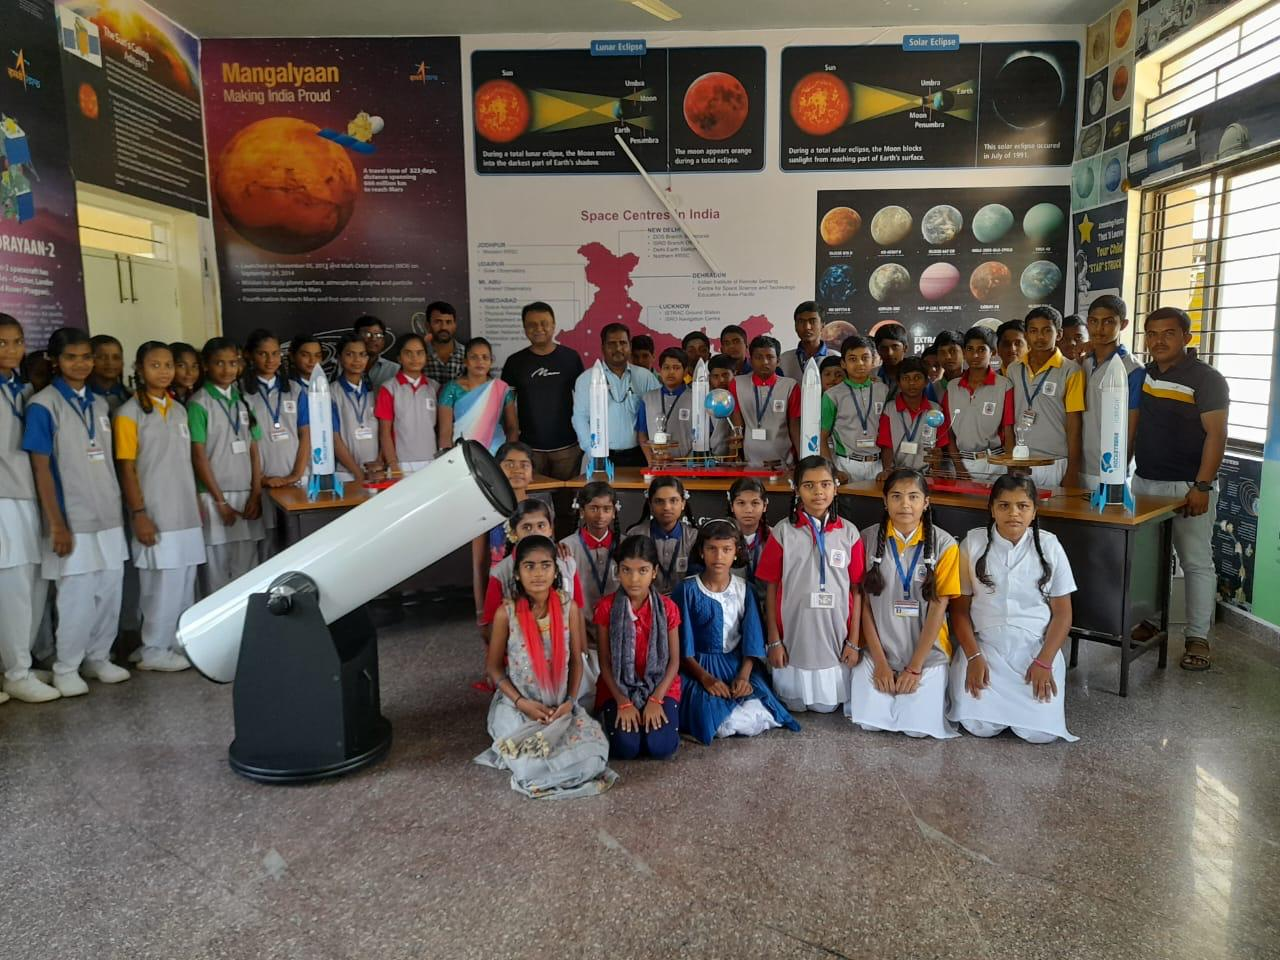
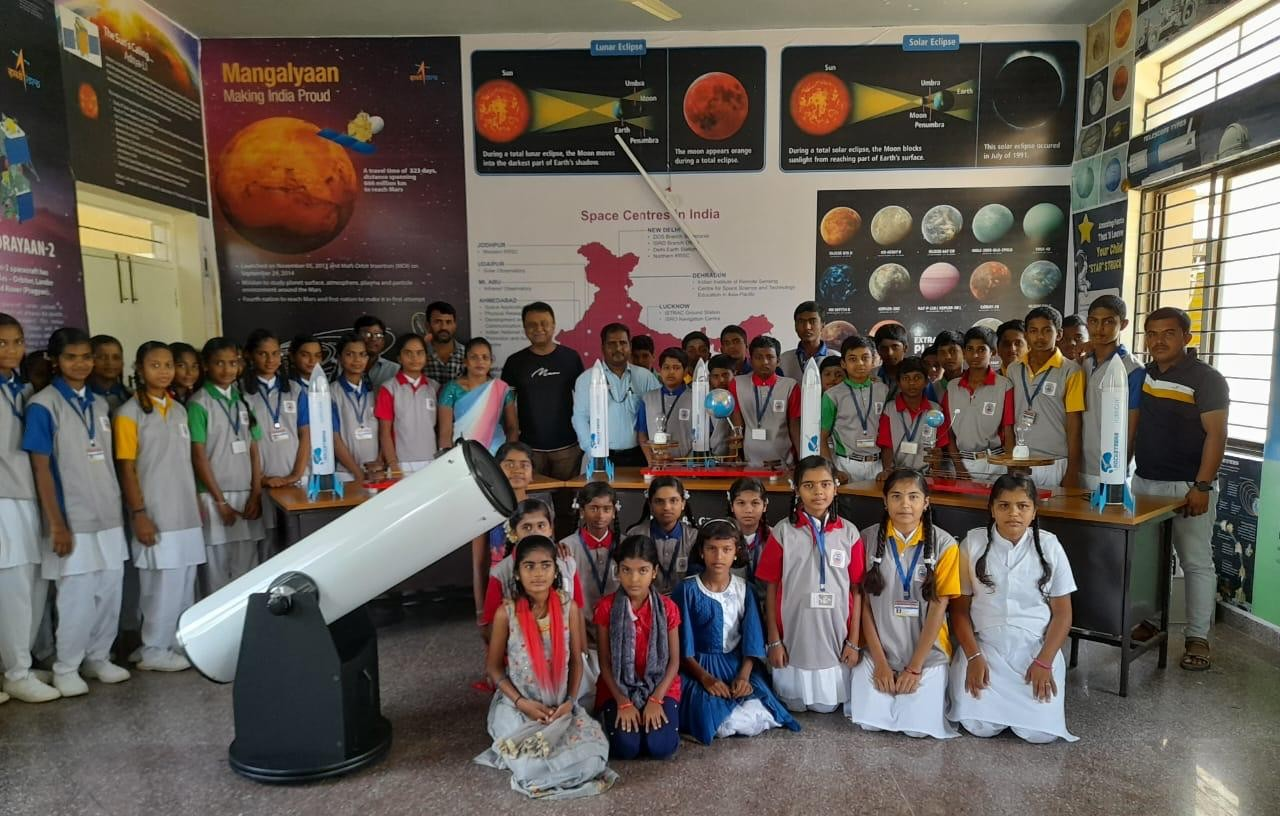
cewgt

diff --git a/client/pages/Index.tsx b/client/pages/Index.tsx
@@ -132,26 +132,26 @@ export default function Index() {
             </h2>
           </Reveal>
 
-          <div className="mt-12 grid gap-10 lg:grid-cols-2 lg:items-start lg:gap-14">
+          <div className="mt-12 grid gap-10 lg:grid-cols-2 lg:items-stretch lg:gap-14">
             <div className="lg:sticky lg:top-28">
-              <Reveal delay={100}>
-                <div className="glass-panel grid gap-3 overflow-hidden p-3 sm:gap-4 sm:p-4">
+              <Reveal delay={100} className="h-full">
+                <div className="glass-panel flex h-full flex-col gap-3 overflow-hidden p-3 sm:gap-4 sm:p-4">
                   <img
                     src="/images/about-us1.jpeg"
                     alt="Space education models and exhibits at a Space E Schoylar learning centre"
-                    className="aspect-[4/3] w-full rounded-xl object-cover"
+                    className="w-full flex-1 rounded-xl object-cover"
                   />
                   <img
                     src="/images/about-us2.jpeg"
                     alt="Students visiting a Space E Schoylar astronomy learning centre"
-                    className="aspect-[4/3] w-full rounded-xl object-cover"
+                    className="w-full flex-1 rounded-xl object-cover"
                   />
                 </div>
               </Reveal>
             </div>
 
-            <Reveal delay={150}>
-              <div className="glass-panel space-y-5 p-5 text-left text-muted-foreground sm:p-10">
+            <Reveal delay={150} className="h-full">
+              <div className="glass-panel flex h-full flex-col justify-center space-y-5 p-5 text-left text-muted-foreground sm:p-10">
                 <p className="leading-relaxed">
                   Welcome to Space E Schoylar (SES) — where the cosmos becomes the classroom, and children who've never had access to science education get to reach for the stars.
                 </p>
